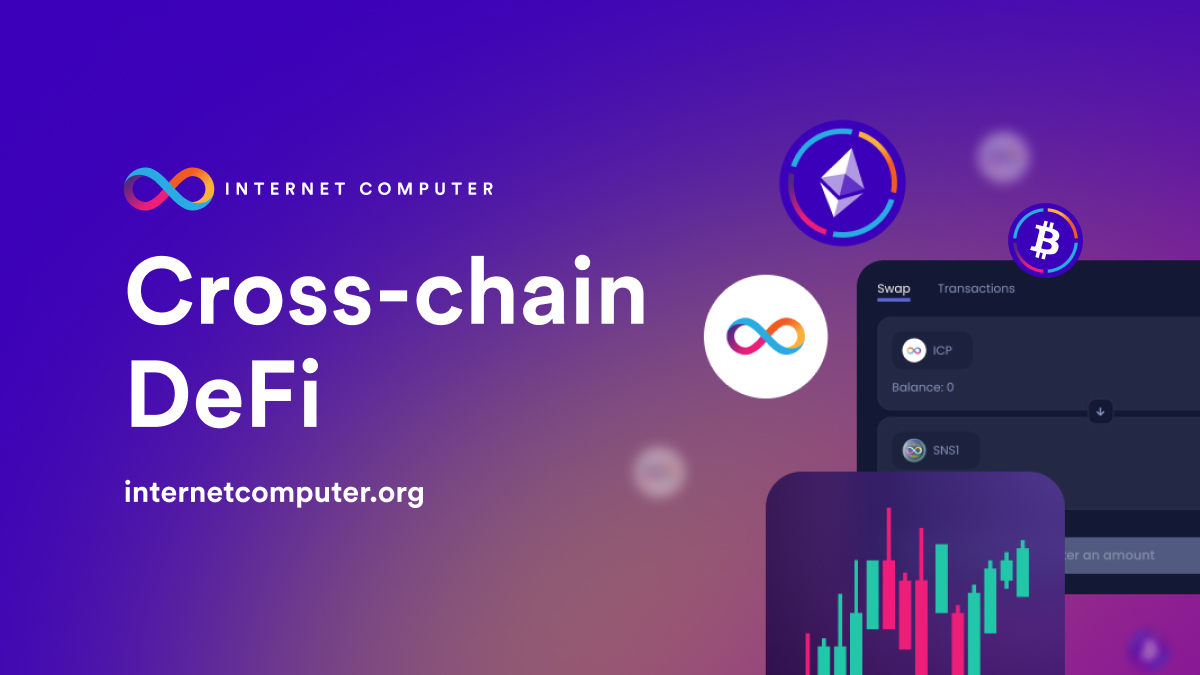
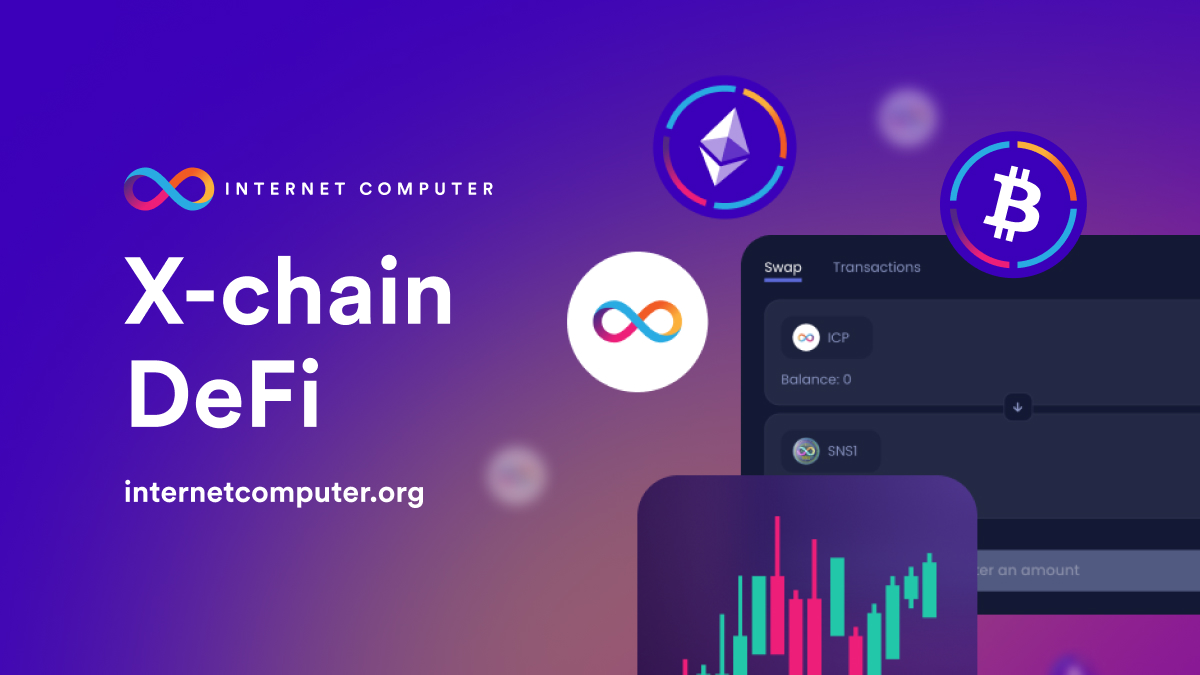
fix text layout; update share image

Changed region(s): [[0.0925, 0.1244, 1.0, 1.0], [0.4008, 0.6533, 0.4625, 0.7467]]

diff --git a/src/pages/ethereum-integration.tsx b/src/pages/ethereum-integration.tsx
@@ -251,9 +251,9 @@ function EthereumIntegrationPage() {
             </h2>
             <p className="tw-lead-sm mb-6 md:mb-6">
               In June 2023, average transaction fees for USDC and USDT were
-              $4.21 and $5.46 respectively, making swaps below a certain amount is
-              completely impractical. The Ethereum integration enables the use
-              of chain-key (ck) tokens such as ckETH and ckERC-20 on the
+              $4.21 and $5.46 respectively, making swaps below a certain amount
+              is completely impractical. The Ethereum integration enables the
+              use of chain-key (ck) tokens such as ckETH and ckERC-20 on the
               Internet Computer, including ckUSDC or ckUSDT. This feature allow
               users to send and receive ETH value on ICP DEXs for a few cents
               with 1-2s finality, and no gas fees.
@@ -393,8 +393,9 @@ function EthereumIntegrationPage() {
               title="Interacting with Ethereum"
               description={
                 <>
-                  Interacting with Ethereum on the Internet Computer (Beta) //
-                  Workshop
+                  Interacting with Ethereum on the Internet Computer (Beta)
+                  <br />
+                  // Workshop
                 </>
               }
             />
